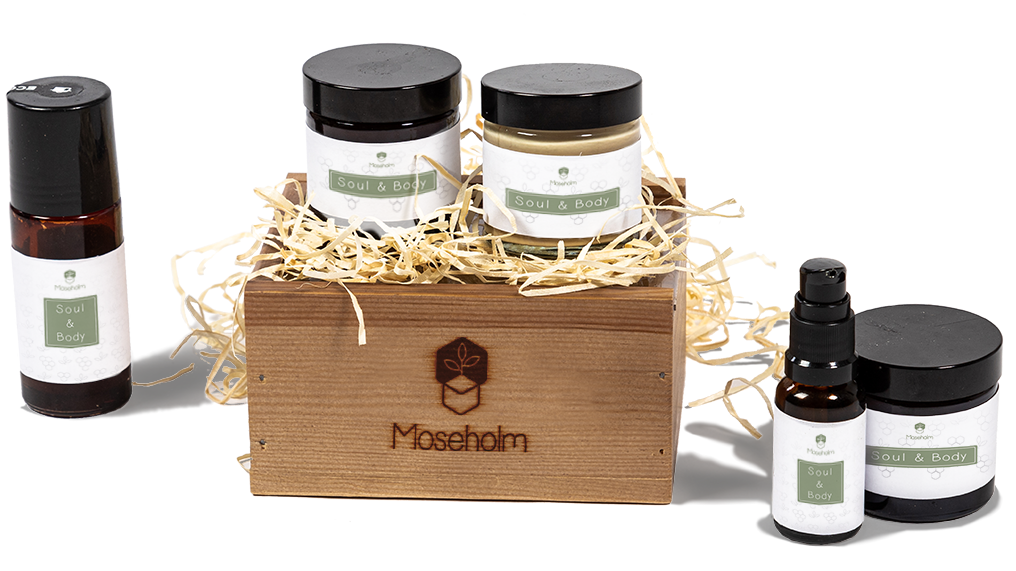
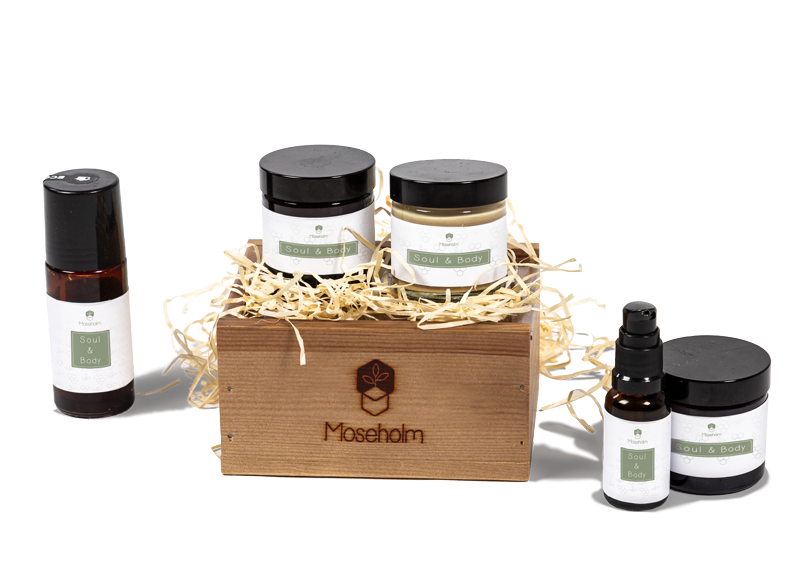
3 ud af 4 bokse på plads

diff --git a/js/main.js b/js/main.js
@@ -4,12 +4,12 @@ $('#myModal').on('shown.bs.modal', function () {
     $('#myInput').trigger('focus')
 })
 
-$(function ()
-    {
-    $.scrollify({
-        section : '.scroll',
-    });
-});
+// $(function ()
+//     {
+//     $.scrollify({
+//         section : '.scroll',
+//     });
+// });
 
 
     let actionMenu = document.getElementById( "action-menu" );
@@ -37,16 +37,16 @@ $(function ()
     })
 
 
-$('.navbar a').on('click', function (e)
-  {
-    if(this.hash !==''){
-    e.preventDefault();
-    const hash = this.hash;
-    $('html, body').animate({
-    scrollTop: $(hash).offset().top
-},500);
-}
-})
+// $('.navbar a').on('click', function (e)
+//   {
+//     if(this.hash !==''){
+//     e.preventDefault();
+//     const hash = this.hash;
+//     $('html, body').animate({
+//     scrollTop: $(hash).offset().top
+// },500);
+// }
+// })
 
 
 

diff --git a/css/styles.scss b/css/styles.scss
@@ -120,7 +120,10 @@ p {
 }
 
 .DeskBoxS{
-	max-height: 571px;
+
+}
+.imgWrap{
+	max-height: 600px;
 }
 
 .imgWrap{
@@ -136,7 +139,7 @@ p {
 
 
 img {
-	display: block;
+	display: flex;
 	max-width: 100%;
 	height: auto;
 }
@@ -185,9 +188,6 @@ h2 {
 	background-color: #333847;
 }
 
-.kasse4 {
-	background-color: #735f5a;
-}
 
 .bund{
 	width: 100%;
@@ -384,6 +384,8 @@ body {
 
 @media screen and (min-width:350px) {
 
+
+
 	@keyframes slideOpen {
 		0% { height: 0px; }
 		100% { height: 200px; }
@@ -400,12 +402,19 @@ body {
 	.logobig {
 		display: none;
 	}
+	.imgStorBox2{
+		display: none;
+	}
 
 }
 
 @media (min-width: 357px){
 
 	.logosmall {
-		display: none;
+		display: none;}
+
+	.imgStorBox{
+		display:none ;
 	}
+
 }

diff --git a/index.php b/index.php
@@ -273,7 +273,8 @@ if(!empty($_POST["data"])){
 
         <div class="imgWrap" id="frKas">
 
-            <img class="DeskBoxS" src="img/boxStork.png">
+            <img class="imgStorBox " src="img/StorKasse-lille.png" >
+            <img class="imgStorBox2" src="img/boxStork.png">
             <button class="btn btn-primary btnfirst" id="action-menu">
                 Læs mere om vores Store kasse
             </button>
@@ -351,6 +352,7 @@ if(!empty($_POST["data"])){
 
     </div>
 </section>
+
 <section class="scroll" id="kas4">
     <div id="SBWrapper" class="BeaWrapper vh-100 bg-beauty">
         <div id="sub-menu">
@@ -377,7 +379,8 @@ if(!empty($_POST["data"])){
         </div>
 
     </div>
-
+</section>
+<section class="scroll" id="kas5">
     <div class="bund">
     </div>
 
